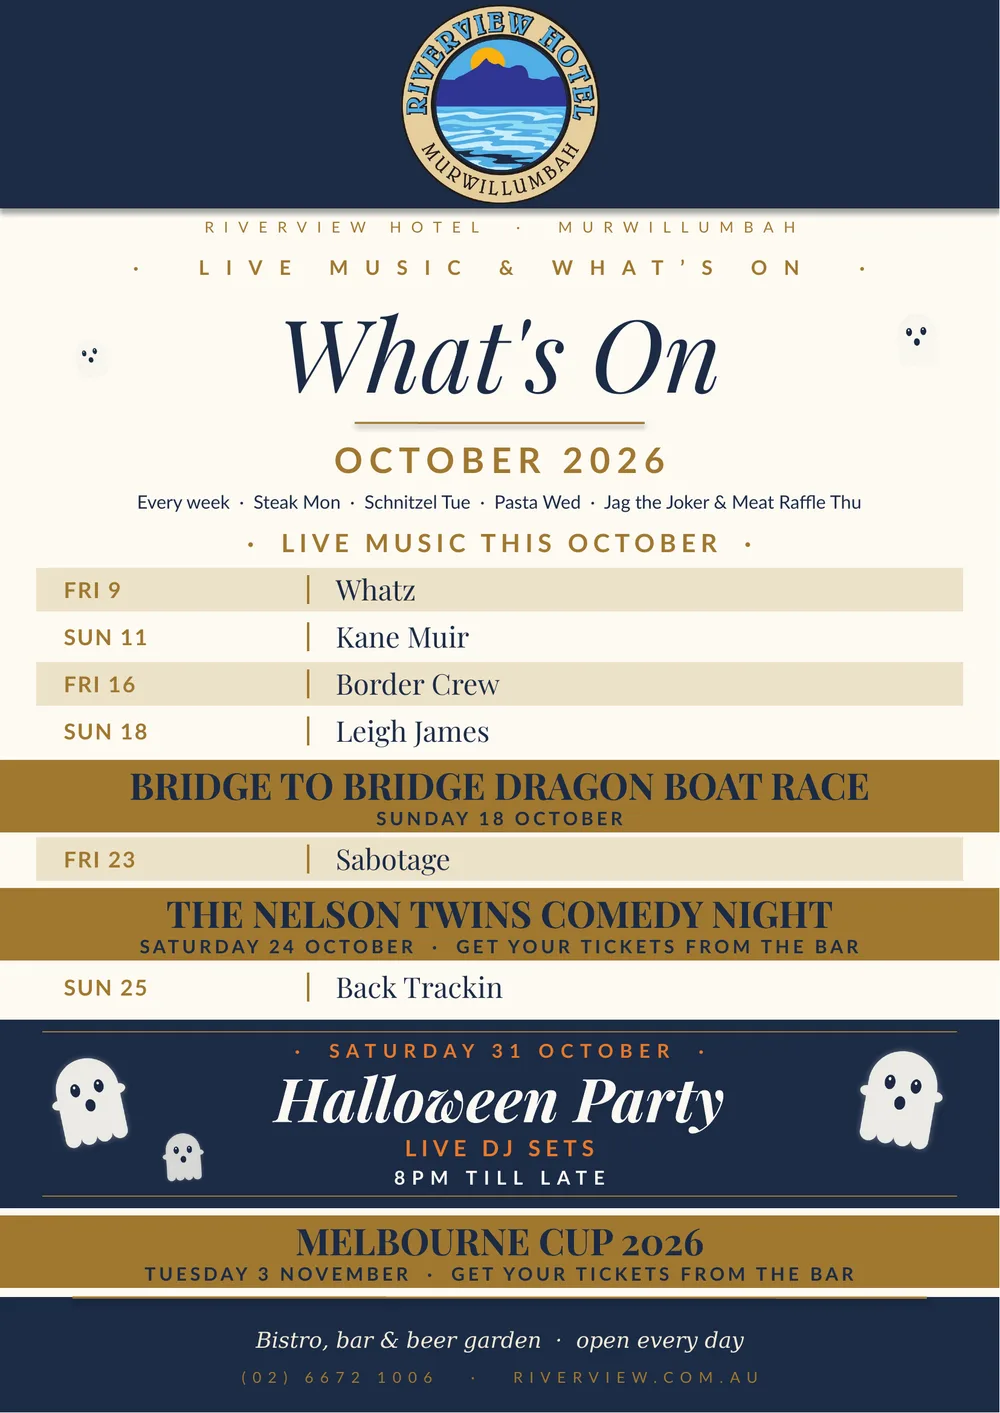
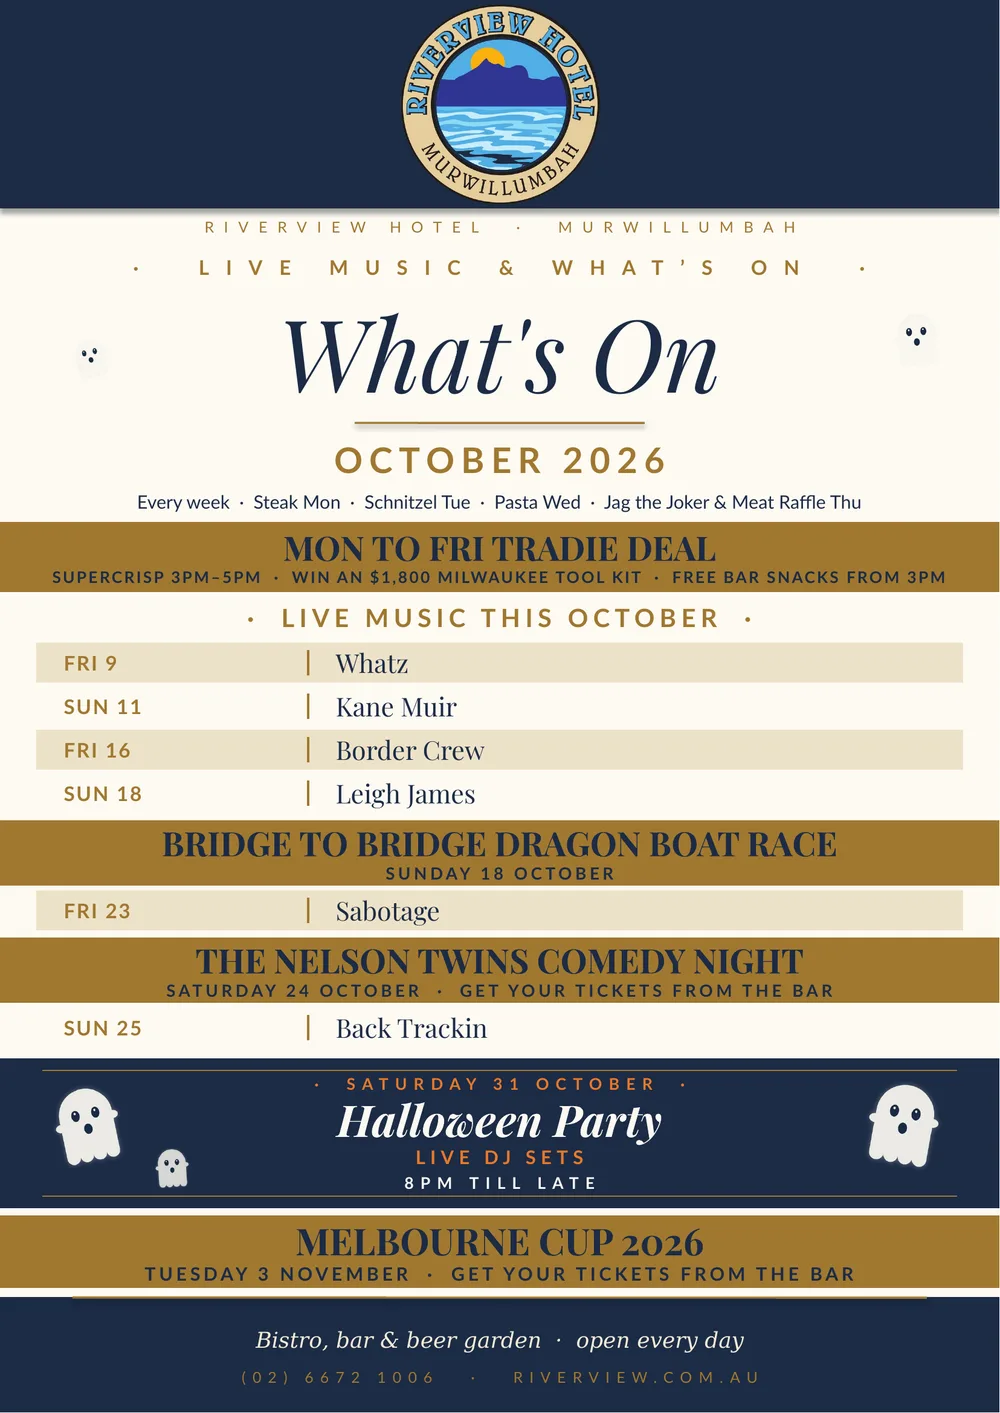
What's On October: add Tradie Deal card, refresh October poster
Claude-Session: https://claude.ai/code/session_01HxwLh1Q3CS6nqNZ5WvUoin

diff --git a/index.html b/index.html
@@ -790,7 +790,12 @@
     <div class="section-label light">This Month</div>
     <h2 class="light">Live music this <em>October</em></h2>
 
-    <div style="margin-top:2rem;background:#121c2e;border:1px solid rgba(232,121,43,.55);border-left:4px solid #E8792B;padding:1.6rem 1.6rem;display:flex;flex-wrap:wrap;align-items:center;gap:.75rem 1.5rem;justify-content:space-between;">
+    <div style="margin-top:2rem;background:var(--surface);border:1px solid var(--border);border-left:4px solid var(--gold2);padding:1.4rem 1.6rem;">
+      <div style="font-family:'Playfair Display',serif;font-size:1.35rem;color:var(--navy);line-height:1.1;">Tradie Deal &middot; Monday to Friday</div>
+      <div style="font-size:.9rem;color:var(--muted);margin-top:.55rem;line-height:1.55;max-width:46rem;">Purchase a Supercrisp between 3pm and 5pm Monday to Friday to go in the draw for a $1,800 Milwaukee tool kit. Free bar snacks from 3pm.</div>
+    </div>
+
+    <div style="margin-top:1rem;background:#121c2e;border:1px solid rgba(232,121,43,.55);border-left:4px solid #E8792B;padding:1.6rem 1.6rem;display:flex;flex-wrap:wrap;align-items:center;gap:.75rem 1.5rem;justify-content:space-between;">
       <div>
         <div style="font-size:.62rem;font-weight:500;letter-spacing:.18em;text-transform:uppercase;color:#E8792B;margin-bottom:.45rem;">Saturday 31 October &middot; 8pm till late</div>
         <div style="font-family:'Playfair Display',serif;font-style:italic;font-size:1.75rem;color:#FBF8F2;line-height:1.1;">Halloween Party <span aria-hidden="true">&#x1F47B;&#x1F47B;</span></div>
